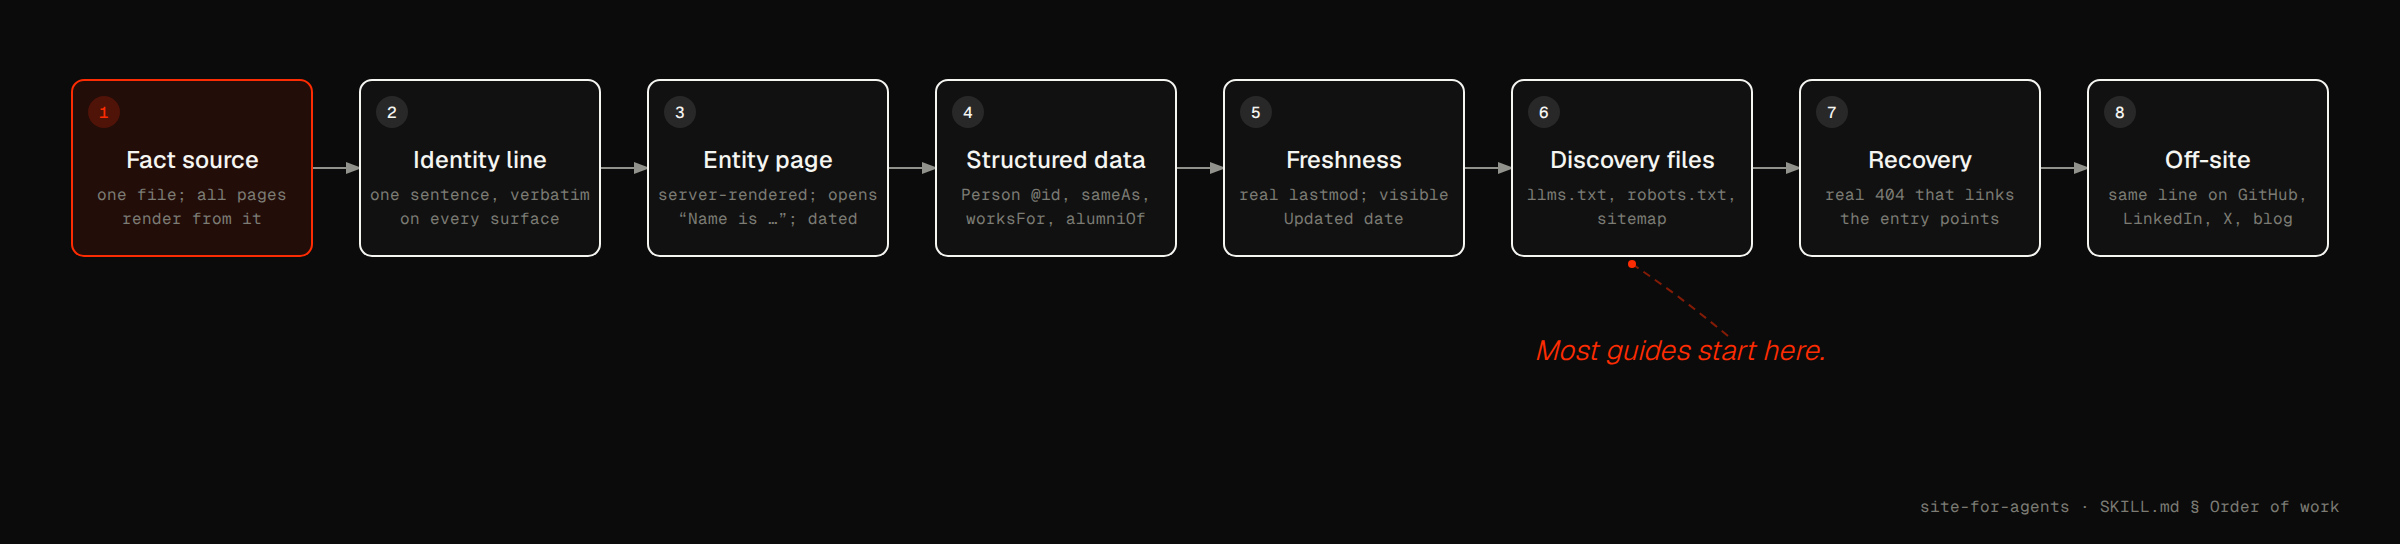
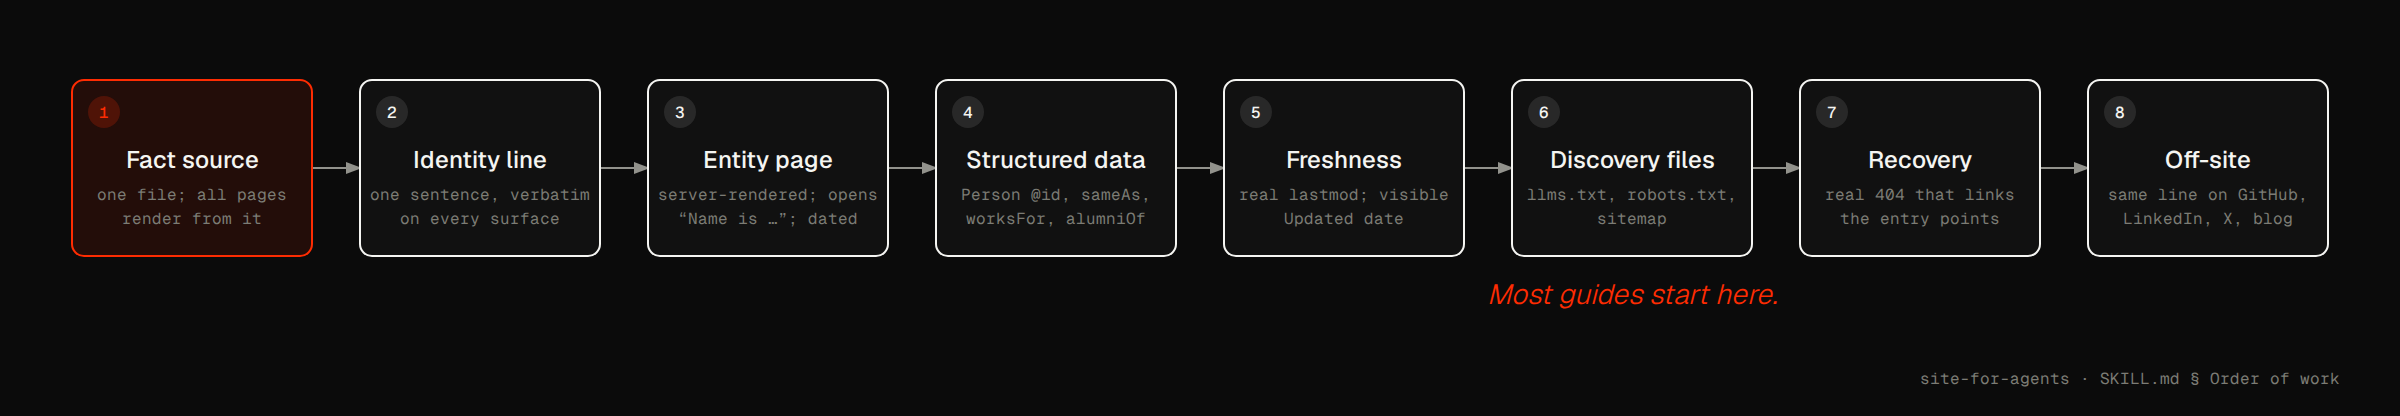
Order-of-work figure: callout centered under step 6, no leader

diff --git a/docs/diagrams/order-of-work-dark.html b/docs/diagrams/order-of-work-dark.html
@@ -24,7 +24,7 @@
   <div class="frame">
     <p class="eyebrow">Process · site-for-agents</p>
     <h1>Eight steps, in order</h1>
-    <svg viewBox="0 0 1200 272" xmlns="http://www.w3.org/2000/svg" role="img" aria-labelledby="order-dark-title order-dark-desc">
+    <svg viewBox="0 0 1200 208" xmlns="http://www.w3.org/2000/svg" role="img" aria-labelledby="order-dark-title order-dark-desc">
       <title id="order-dark-title">Order of work for an agent-visible personal site</title>
       <desc id="order-dark-desc">Eight sequential steps: fact source, identity line, entity page, structured data, freshness, discovery files, recovery, off-site profiles; llms.txt sits at step six, where most guides begin.</desc>
       <defs>
@@ -96,10 +96,8 @@
       <text x="1104" y="84" fill="#f5f5f2" font-size="12" font-weight="500" font-family="'Geist', 'Atlas Grotesk', sans-serif" text-anchor="middle" >Off-site</text>
       <text x="1104" y="100" fill="#7c7c75" font-size="8" font-weight="400" font-family="'Geist Mono', monospace" text-anchor="middle" >same line on GitHub,</text>
       <text x="1104" y="112" fill="#7c7c75" font-size="8" font-weight="400" font-family="'Geist Mono', monospace" text-anchor="middle" >LinkedIn, X, blog</text>
-      <text x="912" y="180" fill="#fe2c02" font-size="14" font-weight="300" font-family="'Geist', 'Atlas Grotesk', sans-serif" text-anchor="end" font-style="italic">Most guides start here.</text>
-      <path d="M 864 168 Q 840 148 816 132" fill="none" stroke="rgba(254,44,2,0.50)" stroke-width="1" stroke-dasharray="4,3"/>
-      <circle cx="816" cy="132" r="2" fill="#fe2c02"/>
-      <text x="1170" y="256" fill="#7c7c75" font-size="8" font-weight="400" font-family="'Geist Mono', monospace" text-anchor="end" >site-for-agents · SKILL.md § Order of work</text>
+      <text x="816" y="152" fill="#fe2c02" font-size="14" font-weight="300" font-family="'Geist', 'Atlas Grotesk', sans-serif" text-anchor="middle" font-style="italic">Most guides start here.</text>
+      <text x="1170" y="192" fill="#7c7c75" font-size="8" font-weight="400" font-family="'Geist Mono', monospace" text-anchor="end" >site-for-agents · SKILL.md § Order of work</text>
     </svg>
   </div>
 </body>

diff --git a/docs/diagrams/order-of-work.html b/docs/diagrams/order-of-work.html
@@ -24,7 +24,7 @@
   <div class="frame">
     <p class="eyebrow">Process · site-for-agents</p>
     <h1>Eight steps, in order</h1>
-    <svg viewBox="0 0 1200 272" xmlns="http://www.w3.org/2000/svg" role="img" aria-labelledby="order-title order-desc">
+    <svg viewBox="0 0 1200 208" xmlns="http://www.w3.org/2000/svg" role="img" aria-labelledby="order-title order-desc">
       <title id="order-title">Order of work for an agent-visible personal site</title>
       <desc id="order-desc">Eight sequential steps: fact source, identity line, entity page, structured data, freshness, discovery files, recovery, off-site profiles; llms.txt sits at step six, where most guides begin.</desc>
       <defs>
@@ -96,10 +96,8 @@
       <text x="1104" y="84" fill="#0b0b0b" font-size="12" font-weight="500" font-family="'Geist', 'Atlas Grotesk', sans-serif" text-anchor="middle" >Off-site</text>
       <text x="1104" y="100" fill="#6f6f69" font-size="8" font-weight="400" font-family="'Geist Mono', monospace" text-anchor="middle" >same line on GitHub,</text>
       <text x="1104" y="112" fill="#6f6f69" font-size="8" font-weight="400" font-family="'Geist Mono', monospace" text-anchor="middle" >LinkedIn, X, blog</text>
-      <text x="912" y="180" fill="#c8441a" font-size="14" font-weight="300" font-family="'Geist', 'Atlas Grotesk', sans-serif" text-anchor="end" font-style="italic">Most guides start here.</text>
-      <path d="M 864 168 Q 840 148 816 132" fill="none" stroke="rgba(200,68,26,0.50)" stroke-width="1" stroke-dasharray="4,3"/>
-      <circle cx="816" cy="132" r="2" fill="#c8441a"/>
-      <text x="1170" y="256" fill="#6f6f69" font-size="8" font-weight="400" font-family="'Geist Mono', monospace" text-anchor="end" >site-for-agents · SKILL.md § Order of work</text>
+      <text x="816" y="152" fill="#c8441a" font-size="14" font-weight="300" font-family="'Geist', 'Atlas Grotesk', sans-serif" text-anchor="middle" font-style="italic">Most guides start here.</text>
+      <text x="1170" y="192" fill="#6f6f69" font-size="8" font-weight="400" font-family="'Geist Mono', monospace" text-anchor="end" >site-for-agents · SKILL.md § Order of work</text>
     </svg>
   </div>
 </body>
